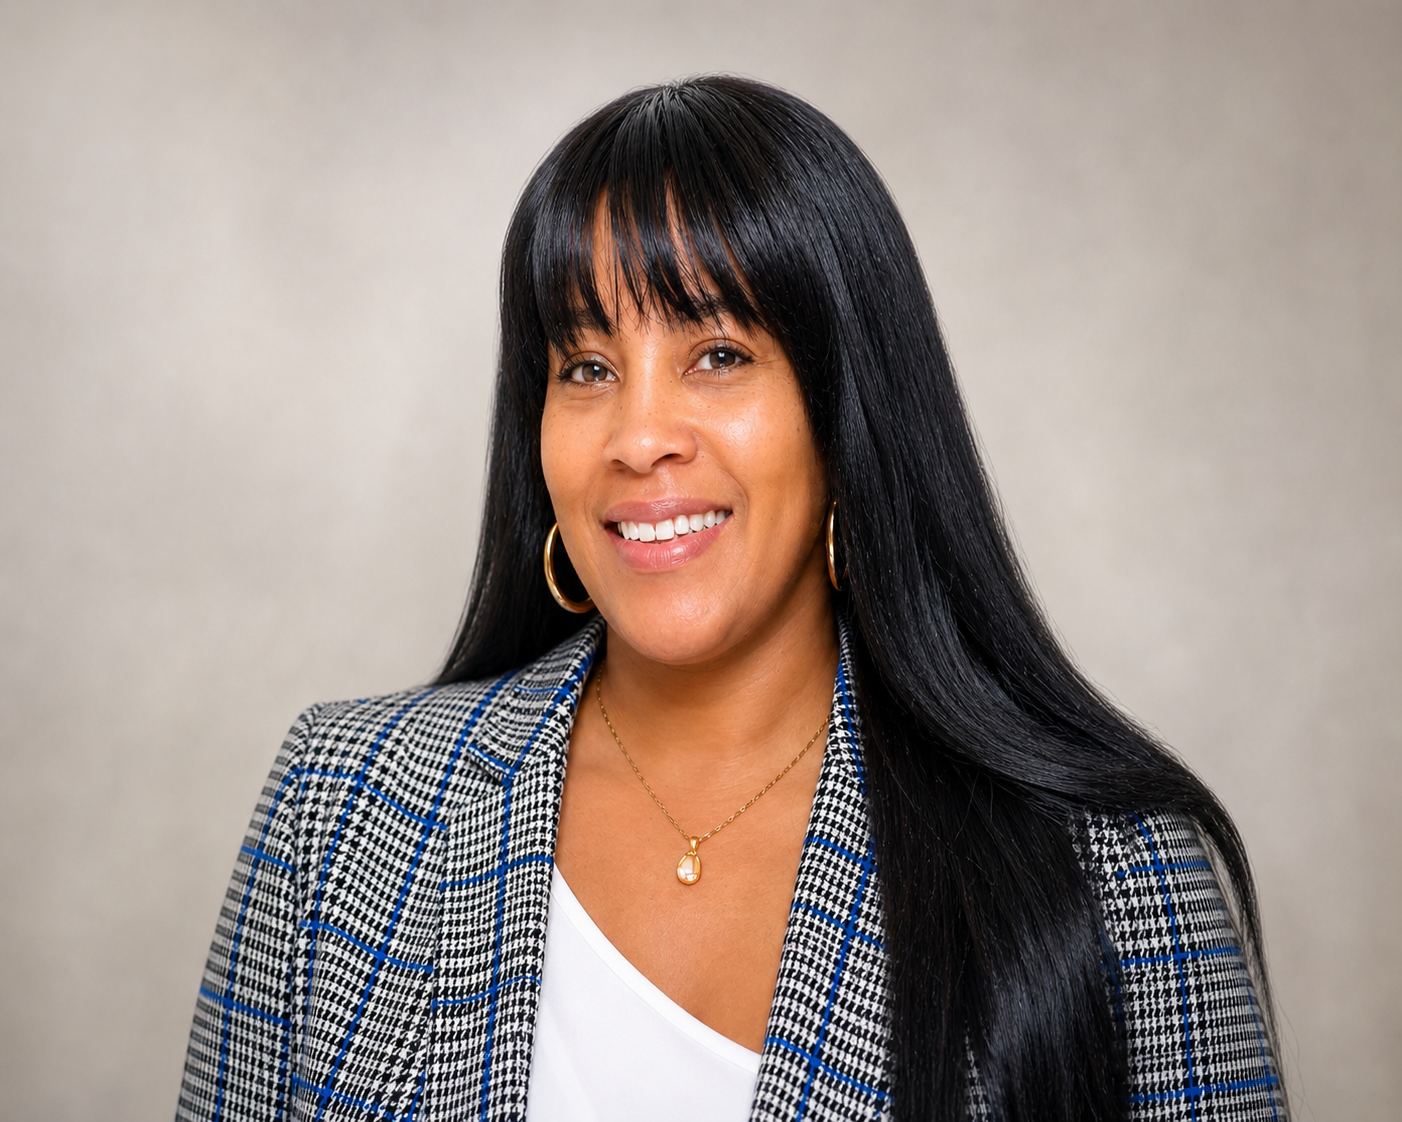
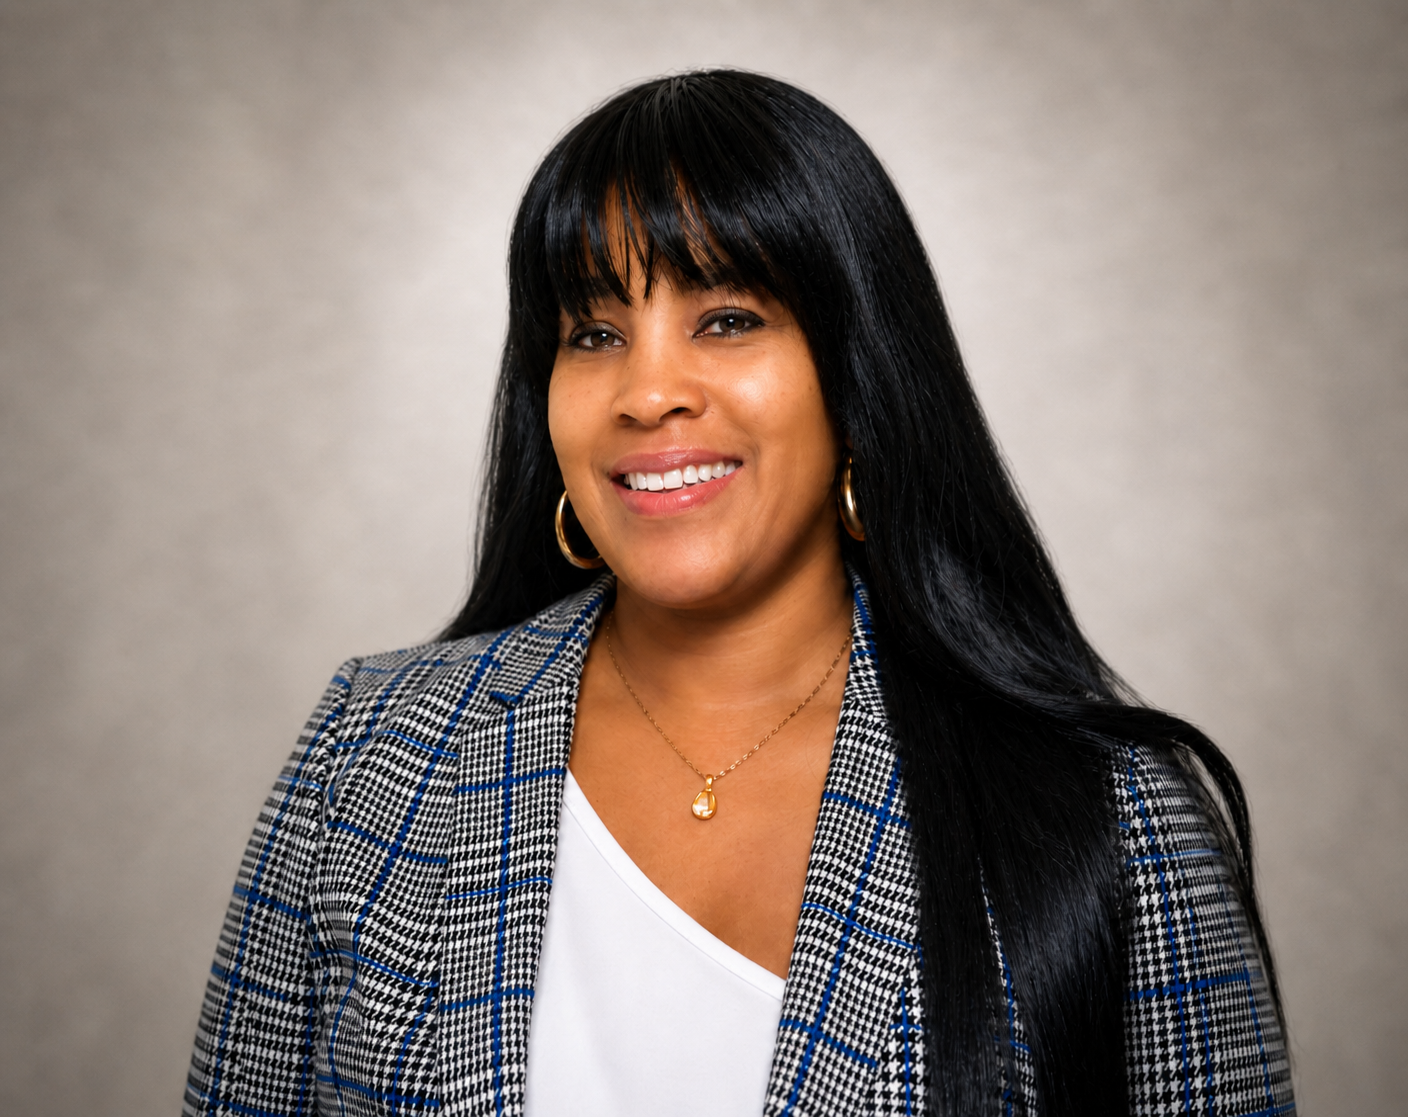
Refined mobile version

diff --git a/styles.css b/styles.css
@@ -5551,7 +5551,7 @@ body.no-scroll .site-footer {
 /* Responsive optimizations for founder images */
 @media (max-width: 768px) {
   .founder-image {
-    width: 200px;
+    width: 250px;
     height: 200px;
   }
   
@@ -5559,14 +5559,13 @@ body.no-scroll .site-footer {
     /* Maintain natural clarity on smaller screens */
     image-rendering: auto;
     filter: none;
-    -webkit-filter: none;
   }
 }
 
 @media (max-width: 480px) {
   .founder-image {
-    width: 180px;
-    height: 180px;
+    width: 250px;
+    height: 200px;
   }
 }
 
